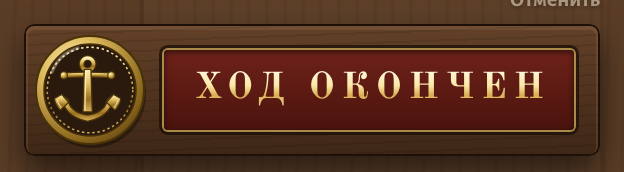
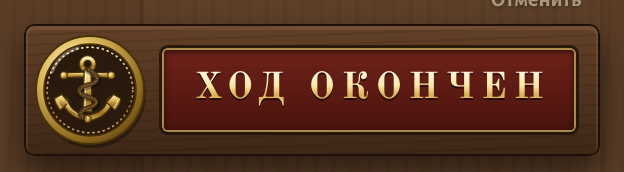
rig: (a) the anchor of the medallion with its thin rope, as in A5Rig (ANCHOR + rope()), the shadow of the letters
Claude-Session: https://claude.ai/code/session_01AuXaEyDTHBLBR9zq1FTfvJ

diff --git a/src/ui/game/art/oak.ts b/src/ui/game/art/oak.ts
@@ -6,13 +6,18 @@ let n = 0;
 
 export type OakSign = 'anchor' | 'muzzle';
 
-/** The anchor of the medallion: box 0..20 × 0..30, as in the prototype (ANCHOR of rig3_tpl.html). */
-const anchorBody = (b: string, r: string) => `<g transform="translate(-3 0)"><circle cx="13" cy="3.2" r="2.7" fill="none" stroke="#4a3208" stroke-width="2.6"/><circle cx="13" cy="3.2" r="2.7" fill="none" stroke="url(#${b})" stroke-width="1.6"/>
+/** The thin rope twisted round the shank — the markup of rope() of the prototype run on its path (__ROPE__ is the id of its gradient). */
+const ROPE = "<defs><linearGradient id=\"__ROPE__\" x1=\"0\" y1=\"0\" x2=\"0\" y2=\"1\"><stop offset=\"0\" stop-color=\"#e3c88e\"/><stop offset=\".55\" stop-color=\"#a8824a\"/><stop offset=\"1\" stop-color=\"#5e4220\"/></linearGradient></defs><path d=\"M13 5.6 C19 8.6 18 11.4 13 12.6 C8 13.8 8 16.6 13 17.8 C18 19 18 21.4 13 22.8 C9.6 23.8 9 25.8 11 27\" fill=\"none\" stroke=\"rgba(0,0,0,.35)\" stroke-width=\"3.25\" stroke-linecap=\"round\" transform=\"translate(0.22499999999999998 0.375)\"/><path d=\"M13 5.6 C19 8.6 18 11.4 13 12.6 C8 13.8 8 16.6 13 17.8 C18 19 18 21.4 13 22.8 C9.6 23.8 9 25.8 11 27\" fill=\"none\" stroke=\"#4a3214\" stroke-width=\"2.05\" stroke-linecap=\"round\"/><ellipse cx=\"0\" cy=\"0\" rx=\"0.7\" ry=\"0.4\" transform=\"translate(13.3 5.8) rotate(85.7)\" fill=\"url(#__ROPE__)\" stroke=\"#4a3214\" stroke-width=\"0.4\"/><ellipse cx=\"0\" cy=\"0\" rx=\"0.7\" ry=\"0.4\" transform=\"translate(14 6.1) rotate(87.7)\" fill=\"url(#__ROPE__)\" stroke=\"#4a3214\" stroke-width=\"0.4\"/><ellipse cx=\"0\" cy=\"0\" rx=\"0.7\" ry=\"0.4\" transform=\"translate(14.6 6.5) rotate(90.5)\" fill=\"url(#__ROPE__)\" stroke=\"#4a3214\" stroke-width=\"0.4\"/><ellipse cx=\"0\" cy=\"0\" rx=\"0.7\" ry=\"0.4\" transform=\"translate(15.2 6.9) rotate(94)\" fill=\"url(#__ROPE__)\" stroke=\"#4a3214\" stroke-width=\"0.4\"/><ellipse cx=\"0\" cy=\"0\" rx=\"0.7\" ry=\"0.4\" transform=\"translate(15.8 7.3) rotate(98.6)\" fill=\"url(#__ROPE__)\" stroke=\"#4a3214\" stroke-width=\"0.4\"/><ellipse cx=\"0\" cy=\"0\" rx=\"0.7\" ry=\"0.4\" transform=\"translate(16.3 7.8) rotate(105.2)\" fill=\"url(#__ROPE__)\" stroke=\"#4a3214\" stroke-width=\"0.4\"/><ellipse cx=\"0\" cy=\"0\" rx=\"0.7\" ry=\"0.4\" transform=\"translate(16.7 8.4) rotate(115.3)\" fill=\"url(#__ROPE__)\" stroke=\"#4a3214\" stroke-width=\"0.4\"/><ellipse cx=\"0\" cy=\"0\" rx=\"0.7\" ry=\"0.4\" transform=\"translate(17 9.1) rotate(131.1)\" fill=\"url(#__ROPE__)\" stroke=\"#4a3214\" stroke-width=\"0.4\"/><ellipse cx=\"0\" cy=\"0\" rx=\"0.7\" ry=\"0.4\" transform=\"translate(17.1 9.8) rotate(153.7)\" fill=\"url(#__ROPE__)\" stroke=\"#4a3214\" stroke-width=\"0.4\"/><ellipse cx=\"0\" cy=\"0\" rx=\"0.7\" ry=\"0.4\" transform=\"translate(16.9 10.5) rotate(176.8)\" fill=\"url(#__ROPE__)\" stroke=\"#4a3214\" stroke-width=\"0.4\"/><ellipse cx=\"0\" cy=\"0\" rx=\"0.7\" ry=\"0.4\" transform=\"translate(16.5 11) rotate(193.7)\" fill=\"url(#__ROPE__)\" stroke=\"#4a3214\" stroke-width=\"0.4\"/><ellipse cx=\"0\" cy=\"0\" rx=\"0.7\" ry=\"0.4\" transform=\"translate(15.9 11.5) rotate(204.5)\" fill=\"url(#__ROPE__)\" stroke=\"#4a3214\" stroke-width=\"0.4\"/><ellipse cx=\"0\" cy=\"0\" rx=\"0.7\" ry=\"0.4\" transform=\"translate(15.3 11.8) rotate(211.6)\" fill=\"url(#__ROPE__)\" stroke=\"#4a3214\" stroke-width=\"0.4\"/><ellipse cx=\"0\" cy=\"0\" rx=\"0.7\" ry=\"0.4\" transform=\"translate(14.6 12.1) rotate(216.7)\" fill=\"url(#__ROPE__)\" stroke=\"#4a3214\" stroke-width=\"0.4\"/><ellipse cx=\"0\" cy=\"0\" rx=\"0.7\" ry=\"0.4\" transform=\"translate(13.9 12.4) rotate(220.6)\" fill=\"url(#__ROPE__)\" stroke=\"#4a3214\" stroke-width=\"0.4\"/><ellipse cx=\"0\" cy=\"0\" rx=\"0.7\" ry=\"0.4\" transform=\"translate(13.2 12.5) rotate(223.4)\" fill=\"url(#__ROPE__)\" stroke=\"#4a3214\" stroke-width=\"0.4\"/><ellipse cx=\"0\" cy=\"0\" rx=\"0.7\" ry=\"0.4\" transform=\"translate(12.5 12.7) rotate(222.3)\" fill=\"url(#__ROPE__)\" stroke=\"#4a3214\" stroke-width=\"0.4\"/><ellipse cx=\"0\" cy=\"0\" rx=\"0.7\" ry=\"0.4\" transform=\"translate(11.8 12.9) rotate(218.6)\" fill=\"url(#__ROPE__)\" stroke=\"#4a3214\" stroke-width=\"0.4\"/><ellipse cx=\"0\" cy=\"0\" rx=\"0.7\" ry=\"0.4\" transform=\"translate(11.1 13.2) rotate(213.6)\" fill=\"url(#__ROPE__)\" stroke=\"#4a3214\" stroke-width=\"0.4\"/><ellipse cx=\"0\" cy=\"0\" rx=\"0.7\" ry=\"0.4\" transform=\"translate(10.5 13.5) rotate(206.7)\" fill=\"url(#__ROPE__)\" stroke=\"#4a3214\" stroke-width=\"0.4\"/><ellipse cx=\"0\" cy=\"0\" rx=\"0.7\" ry=\"0.4\" transform=\"translate(9.9 14) rotate(195.9)\" fill=\"url(#__ROPE__)\" stroke=\"#4a3214\" stroke-width=\"0.4\"/><ellipse cx=\"0\" cy=\"0\" rx=\"0.7\" ry=\"0.4\" transform=\"translate(9.4 14.5) rotate(177.1)\" fill=\"url(#__ROPE__)\" stroke=\"#4a3214\" stroke-width=\"0.4\"/><ellipse cx=\"0\" cy=\"0\" rx=\"0.7\" ry=\"0.4\" transform=\"translate(9.3 15.2) rotate(147.5)\" fill=\"url(#__ROPE__)\" stroke=\"#4a3214\" stroke-width=\"0.4\"/><ellipse cx=\"0\" cy=\"0\" rx=\"0.7\" ry=\"0.4\" transform=\"translate(9.5 15.9) rotate(118.2)\" fill=\"url(#__ROPE__)\" stroke=\"#4a3214\" stroke-width=\"0.4\"/><ellipse cx=\"0\" cy=\"0\" rx=\"0.7\" ry=\"0.4\" transform=\"translate(9.9 16.4) rotate(99.7)\" fill=\"url(#__ROPE__)\" stroke=\"#4a3214\" stroke-width=\"0.4\"/><ellipse cx=\"0\" cy=\"0\" rx=\"0.7\" ry=\"0.4\" transform=\"translate(10.5 16.9) rotate(89.1)\" fill=\"url(#__ROPE__)\" stroke=\"#4a3214\" stroke-width=\"0.4\"/><ellipse cx=\"0\" cy=\"0\" rx=\"0.7\" ry=\"0.4\" transform=\"translate(11.2 17.2) rotate(82.2)\" fill=\"url(#__ROPE__)\" stroke=\"#4a3214\" stroke-width=\"0.4\"/><ellipse cx=\"0\" cy=\"0\" rx=\"0.7\" ry=\"0.4\" transform=\"translate(11.8 17.5) rotate(77.3)\" fill=\"url(#__ROPE__)\" stroke=\"#4a3214\" stroke-width=\"0.4\"/><ellipse cx=\"0\" cy=\"0\" rx=\"0.7\" ry=\"0.4\" transform=\"translate(12.5 17.7) rotate(73.6)\" fill=\"url(#__ROPE__)\" stroke=\"#4a3214\" stroke-width=\"0.4\"/><ellipse cx=\"0\" cy=\"0\" rx=\"0.7\" ry=\"0.4\" transform=\"translate(13.2 17.9) rotate(72.6)\" fill=\"url(#__ROPE__)\" stroke=\"#4a3214\" stroke-width=\"0.4\"/><ellipse cx=\"0\" cy=\"0\" rx=\"0.7\" ry=\"0.4\" transform=\"translate(13.9 18.1) rotate(75.3)\" fill=\"url(#__ROPE__)\" stroke=\"#4a3214\" stroke-width=\"0.4\"/><ellipse cx=\"0\" cy=\"0\" rx=\"0.7\" ry=\"0.4\" transform=\"translate(14.6 18.3) rotate(79.3)\" fill=\"url(#__ROPE__)\" stroke=\"#4a3214\" stroke-width=\"0.4\"/><ellipse cx=\"0\" cy=\"0\" rx=\"0.7\" ry=\"0.4\" transform=\"translate(15.3 18.6) rotate(84.8)\" fill=\"url(#__ROPE__)\" stroke=\"#4a3214\" stroke-width=\"0.4\"/><ellipse cx=\"0\" cy=\"0\" rx=\"0.7\" ry=\"0.4\" transform=\"translate(15.9 18.9) rotate(93.7)\" fill=\"url(#__ROPE__)\" stroke=\"#4a3214\" stroke-width=\"0.4\"/><ellipse cx=\"0\" cy=\"0\" rx=\"0.7\" ry=\"0.4\" transform=\"translate(16.4 19.4) rotate(110.1)\" fill=\"url(#__ROPE__)\" stroke=\"#4a3214\" stroke-width=\"0.4\"/><ellipse cx=\"0\" cy=\"0\" rx=\"0.7\" ry=\"0.4\" transform=\"translate(16.7 20.1) rotate(140.6)\" fill=\"url(#__ROPE__)\" stroke=\"#4a3214\" stroke-width=\"0.4\"/><ellipse cx=\"0\" cy=\"0\" rx=\"0.7\" ry=\"0.4\" transform=\"translate(16.6 20.8) rotate(174.9)\" fill=\"url(#__ROPE__)\" stroke=\"#4a3214\" stroke-width=\"0.4\"/><ellipse cx=\"0\" cy=\"0\" rx=\"0.7\" ry=\"0.4\" transform=\"translate(16.1 21.3) rotate(195.5)\" fill=\"url(#__ROPE__)\" stroke=\"#4a3214\" stroke-width=\"0.4\"/><ellipse cx=\"0\" cy=\"0\" rx=\"0.7\" ry=\"0.4\" transform=\"translate(15.6 21.8) rotate(206.2)\" fill=\"url(#__ROPE__)\" stroke=\"#4a3214\" stroke-width=\"0.4\"/><ellipse cx=\"0\" cy=\"0\" rx=\"0.7\" ry=\"0.4\" transform=\"translate(14.9 22.1) rotate(212.6)\" fill=\"url(#__ROPE__)\" stroke=\"#4a3214\" stroke-width=\"0.4\"/><ellipse cx=\"0\" cy=\"0\" rx=\"0.7\" ry=\"0.4\" transform=\"translate(14.3 22.4) rotate(216.9)\" fill=\"url(#__ROPE__)\" stroke=\"#4a3214\" stroke-width=\"0.4\"/><ellipse cx=\"0\" cy=\"0\" rx=\"0.7\" ry=\"0.4\" transform=\"translate(13.6 22.6) rotate(220.2)\" fill=\"url(#__ROPE__)\" stroke=\"#4a3214\" stroke-width=\"0.4\"/><ellipse cx=\"0\" cy=\"0\" rx=\"0.7\" ry=\"0.4\" transform=\"translate(12.9 22.8) rotate(220.5)\" fill=\"url(#__ROPE__)\" stroke=\"#4a3214\" stroke-width=\"0.4\"/><ellipse cx=\"0\" cy=\"0\" rx=\"0.7\" ry=\"0.4\" transform=\"translate(12.2 23.1) rotate(216.3)\" fill=\"url(#__ROPE__)\" stroke=\"#4a3214\" stroke-width=\"0.4\"/><ellipse cx=\"0\" cy=\"0\" rx=\"0.7\" ry=\"0.4\" transform=\"translate(11.5 23.4) rotate(210.3)\" fill=\"url(#__ROPE__)\" stroke=\"#4a3214\" stroke-width=\"0.4\"/><ellipse cx=\"0\" cy=\"0\" rx=\"0.7\" ry=\"0.4\" transform=\"translate(10.9 23.8) rotate(202.1)\" fill=\"url(#__ROPE__)\" stroke=\"#4a3214\" stroke-width=\"0.4\"/><ellipse cx=\"0\" cy=\"0\" rx=\"0.7\" ry=\"0.4\" transform=\"translate(10.4 24.2) rotate(189.6)\" fill=\"url(#__ROPE__)\" stroke=\"#4a3214\" stroke-width=\"0.4\"/><ellipse cx=\"0\" cy=\"0\" rx=\"0.7\" ry=\"0.4\" transform=\"translate(10 24.8) rotate(169.6)\" fill=\"url(#__ROPE__)\" stroke=\"#4a3214\" stroke-width=\"0.4\"/><ellipse cx=\"0\" cy=\"0\" rx=\"0.7\" ry=\"0.4\" transform=\"translate(9.9 25.5) rotate(141.5)\" fill=\"url(#__ROPE__)\" stroke=\"#4a3214\" stroke-width=\"0.4\"/><ellipse cx=\"0\" cy=\"0\" rx=\"0.7\" ry=\"0.4\" transform=\"translate(10.1 26.2) rotate(114.9)\" fill=\"url(#__ROPE__)\" stroke=\"#4a3214\" stroke-width=\"0.4\"/><ellipse cx=\"0\" cy=\"0\" rx=\"0.7\" ry=\"0.4\" transform=\"translate(10.6 26.7) rotate(97.3)\" fill=\"url(#__ROPE__)\" stroke=\"#4a3214\" stroke-width=\"0.4\"/>";
+
+/** The anchor of the medallion with its rope: box 0..20 × 0..30, as in the prototype (ANCHOR of rig3_tpl.html). */
+const anchorBody = (b: string, r: string, rg: string) => `<g transform="translate(-3 0)"><circle cx="13" cy="3.2" r="2.7" fill="none" stroke="#4a3208" stroke-width="2.6"/><circle cx="13" cy="3.2" r="2.7" fill="none" stroke="url(#${b})" stroke-width="1.6"/>
   <path d="M2.6 7.2 Q13 6.4 23.4 7.2 L23.4 9.4 Q13 8.6 2.6 9.4 Z" fill="url(#${b})" stroke="#4a3208" stroke-width=".55"/><circle cx="2.4" cy="8.3" r="1.6" fill="url(#${r})" stroke="#4a3208" stroke-width=".45"/><circle cx="23.6" cy="8.3" r="1.6" fill="url(#${r})" stroke="#4a3208" stroke-width=".45"/>
   <path d="M11.5 5.6 H14.5 L15.1 24.6 H10.9 Z" fill="url(#${b})" stroke="#4a3208" stroke-width=".6"/><path d="M12.2 6.2 L11.8 24" stroke="#fff3c4" stroke-width=".6" opacity=".8"/>
   <path d="M1.4 16.8 Q1.6 26.4 13 28.8 Q24.4 26.4 24.6 16.8 L21.8 19 Q21 24.8 13 26 Q5 24.8 4.2 19 Z" fill="url(#${b})" stroke="#4a3208" stroke-width=".6"/>
   <path d="M1.4 16.8 L-1.8 18.6 Q-1.4 21.8 0.8 23.8 L4.6 20.4 Z M24.6 16.8 L27.8 18.6 Q27.4 21.8 25.2 23.8 L21.4 20.4 Z" fill="url(#${b})" stroke="#4a3208" stroke-width=".55"/>
-  <path d="M-.6 19.2 Q0 21.4 1.2 22.6 M26.6 19.2 Q26 21.4 24.8 22.6" stroke="#fff3c4" stroke-width=".5" fill="none" opacity=".7"/></g>`;
+  <path d="M-.6 19.2 Q0 21.4 1.2 22.6 M26.6 19.2 Q26 21.4 24.8 22.6" stroke="#fff3c4" stroke-width=".5" fill="none" opacity=".7"/>
+  <circle cx="13" cy="27.8" r="1.6" fill="url(#${r})" stroke="#4a3208" stroke-width=".45"/><path d="M3.6 20 Q5.6 25.6 13 27" stroke="#fff3c4" stroke-width=".55" fill="none" opacity=".6"/>
+  ${ROPE.replace(/__ROPE__/g, rg)}</g>`;
 
 /** The muzzle of a gun in its port (MUZZLE_S): the red inside of the port, the iron mouth with a glint. */
 const muzzleBody = (id: string) => `<defs><radialGradient id="${id}i" cx=".4" cy=".35" r=".8"><stop offset="0" stop-color="#a7b0b4"/><stop offset=".35" stop-color="#4a5256"/><stop offset=".8" stop-color="#1a1d1f"/><stop offset="1" stop-color="#0a0b0c"/></radialGradient><linearGradient id="${id}p" x1="0" y1="0" x2="0" y2="1"><stop offset="0" stop-color="#3e0b07"/><stop offset=".4" stop-color="#7e1d14"/><stop offset="1" stop-color="#9a2a1e"/></linearGradient></defs>
@@ -26,7 +31,7 @@ export function oakMedal(sign: OakSign = 'anchor'): string {
   const b = `${id}b`, r = `${id}r`;
   const inner =
     sign === 'anchor'
-      ? `<g transform="translate(14.6 10.4) scale(1.12)">${anchorBody(b, r)}</g>`
+      ? `<g transform="translate(14.6 10.4) scale(1.12)">${anchorBody(b, r, `${id}g`)}</g>`
       : `<g transform="translate(27 27) scale(1.12)">${muzzleBody(id)}</g>`;
   return `<svg viewBox="0 0 54 54" aria-hidden="true" focusable="false"><defs>
     <linearGradient id="${b}" x1="0" y1="0" x2="0" y2="1"><stop offset="0" stop-color="#fff0b8"/><stop offset=".35" stop-color="#e2bf62"/><stop offset=".7" stop-color="#9a7020"/><stop offset="1" stop-color="#d8b05a"/></linearGradient>

diff --git a/src/ui/game/game.css b/src/ui/game/game.css
@@ -4051,6 +4051,7 @@ button.star::before {
   background: linear-gradient(#fffbe6, #fbe7a6 40%, #d9ae52 62%, #fff0b8);
   -webkit-background-clip: text;
   background-clip: text;
+  filter: drop-shadow(0 1px 0 rgba(0, 0, 0, 0.6));
 }
 /* a long label («Сейчас ход Компании») goes tighter instead of being cut at once */
 .oak-btn.oak-long .oak-pan b {
